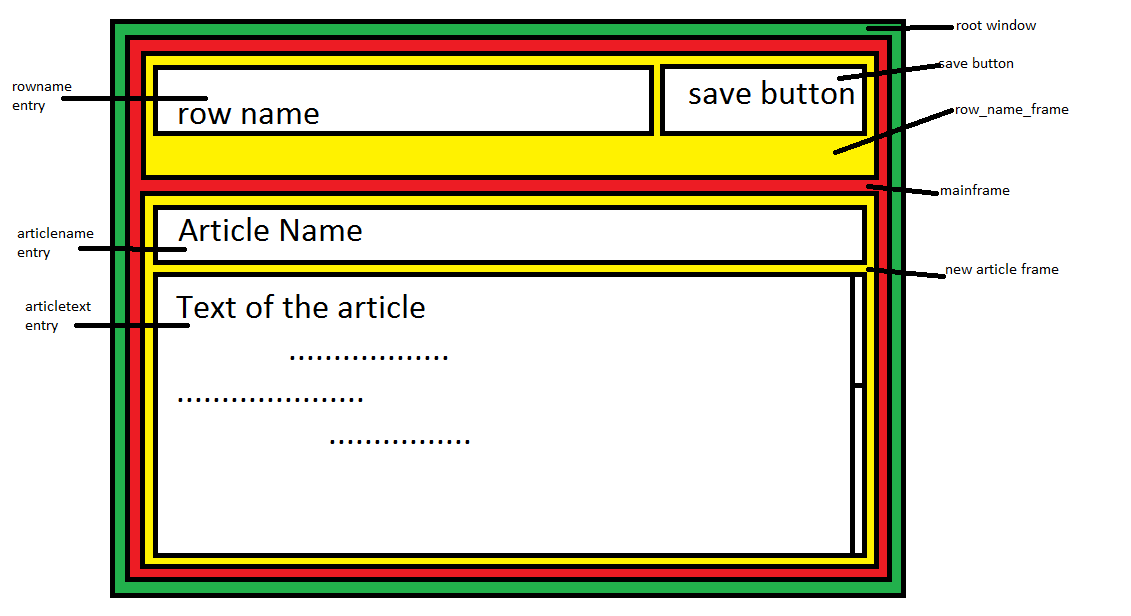
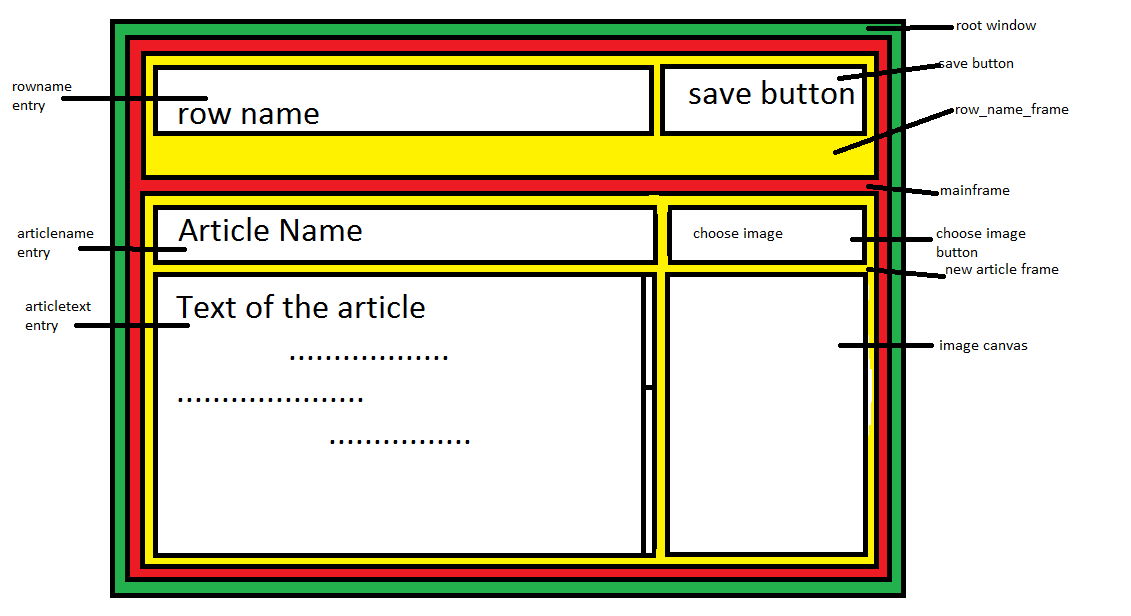
some changes

Changed region(s): [[0.557, 0.3393, 0.7427, 0.9253], [0.7427, 0.4627, 0.8974, 0.8945], [0.7427, 0.3701, 0.8974, 0.4318]]

diff --git a/article.writer.py b/article.writer.py
@@ -32,6 +32,10 @@ def write_data(arg, values): # Here we get the data object('arg'), and append to
 def save_changes(source, document): # Here we get the data object('source'), and write it to the data file('document').
     with open(document, 'w') as document:
         document.write(json.dumps(source))
+		
+def choose_image():
+    filename = filedialog.askopenfilename()
+    print(filename)
 
 # the gui:
 if __name__ == '__main__':
@@ -63,12 +67,13 @@ if __name__ == '__main__':
 # Define the Save- button:
     _save_btn = ttk.Button(_art_name_frame, text='Save Article', command=save)
     _save_btn.grid(row=0, column=1, sticky=E, padx=5)
+#############################################################
 	
 # Define the article text frame:
     _art_text_frame = ttk.LabelFrame(_mainframe, padding='5 5 5 5', text='Article:')
     _art_text_frame.grid(row=1,column=0, sticky=(E, W, S, N))
     _art_text_frame.columnconfigure(0, weight=1)
-    #_art_text_frame.rowconfigure(0, weight=1)
+    _art_text_frame.columnconfigure(1, weight=1)
     _art_text_frame.rowconfigure(1, weight=1)
 	
 # Define the article title:
@@ -80,6 +85,14 @@ if __name__ == '__main__':
     _art_text = StringVar()
     _art_text.set('Text Here...')
     _art_text_entry = Text(_art_text_frame,width=40, height=20, bg='white', fg='black')
-    _art_text_entry.grid(row=1, column=0, sticky=(W, E), padx=5)
+    _art_text_entry.grid(row=1, column=0, sticky=(W, E, S, N), padx=5)
+	
+# Define the image choose button:
+    _img_btn = ttk.Button(_art_text_frame, text='Choose image', command=choose_image)
+    _img_btn.grid(row=0, column=1, sticky=E, padx=5)
+	
+# Define the image canvas:
+    _img_canvas = Canvas(_art_text_frame, width=200, height=160, bg='red')
+    _img_canvas.grid(row=1, column=1, sticky=(E, W, S, N), padx=5)
 	
     _root.mainloop()

diff --git a/README.md b/README.md
@@ -13,4 +13,6 @@ passed through- for now...
 - The GUI- Desktop app is ready it's called 'article-writer.py'
 
 # Next goals:
+- Adding pictures to the articles.
+- Adding img file selct in the article-writer.py.
 - Write more articles!
